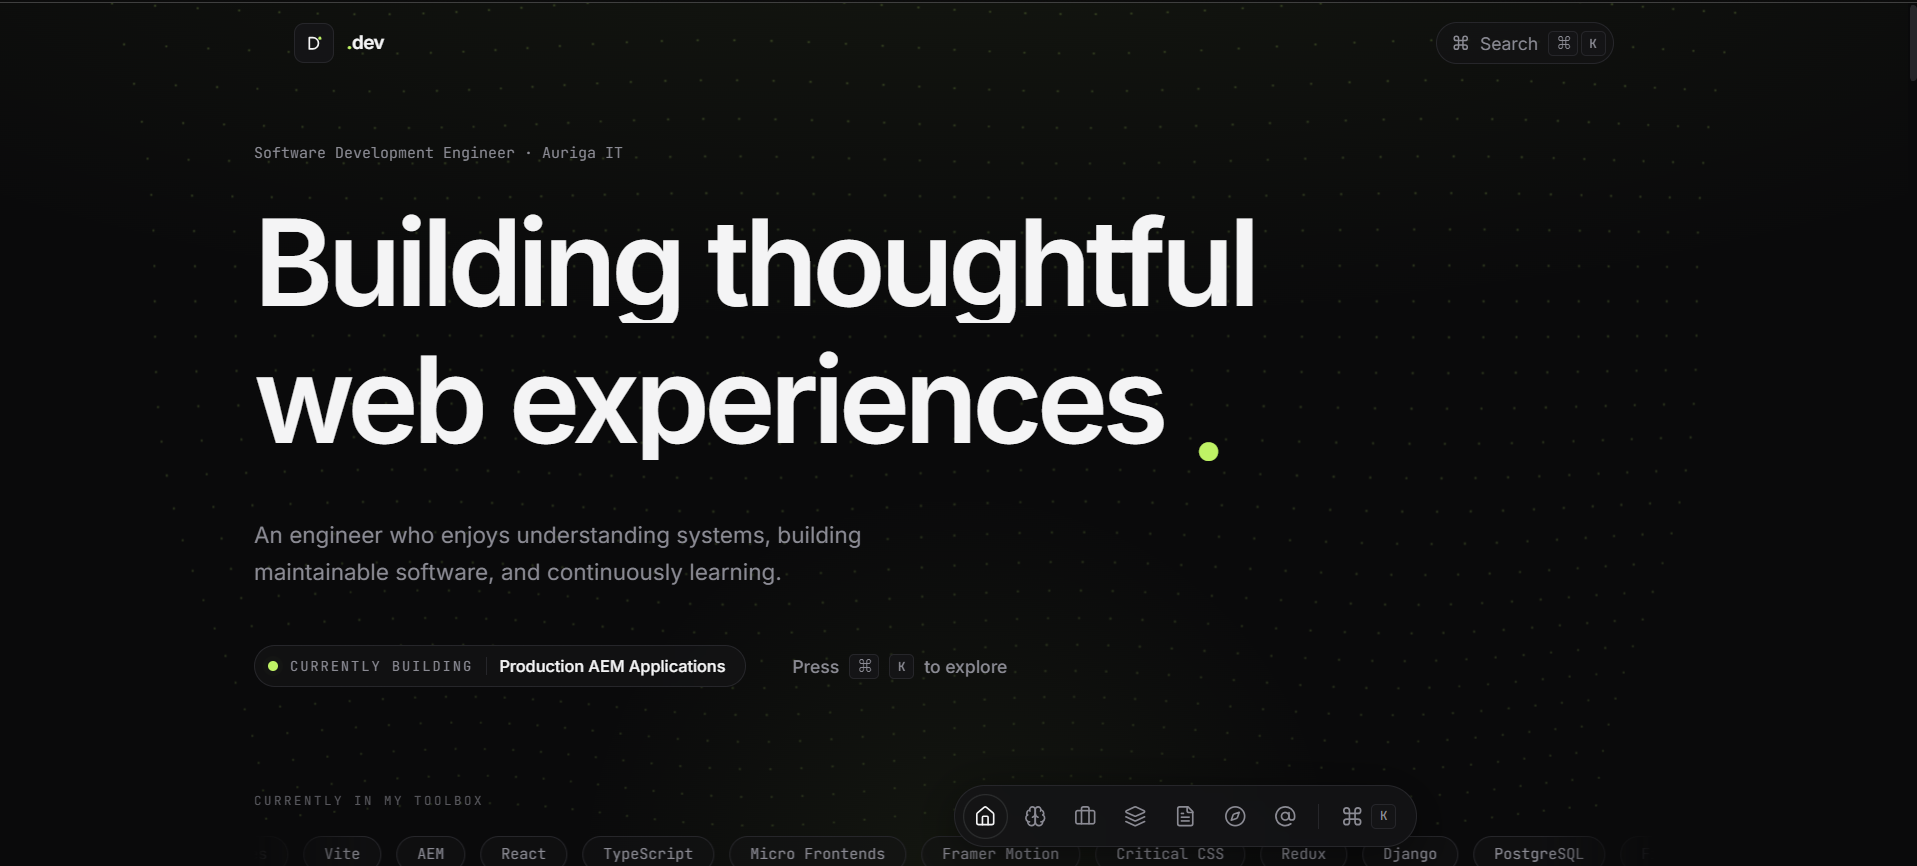
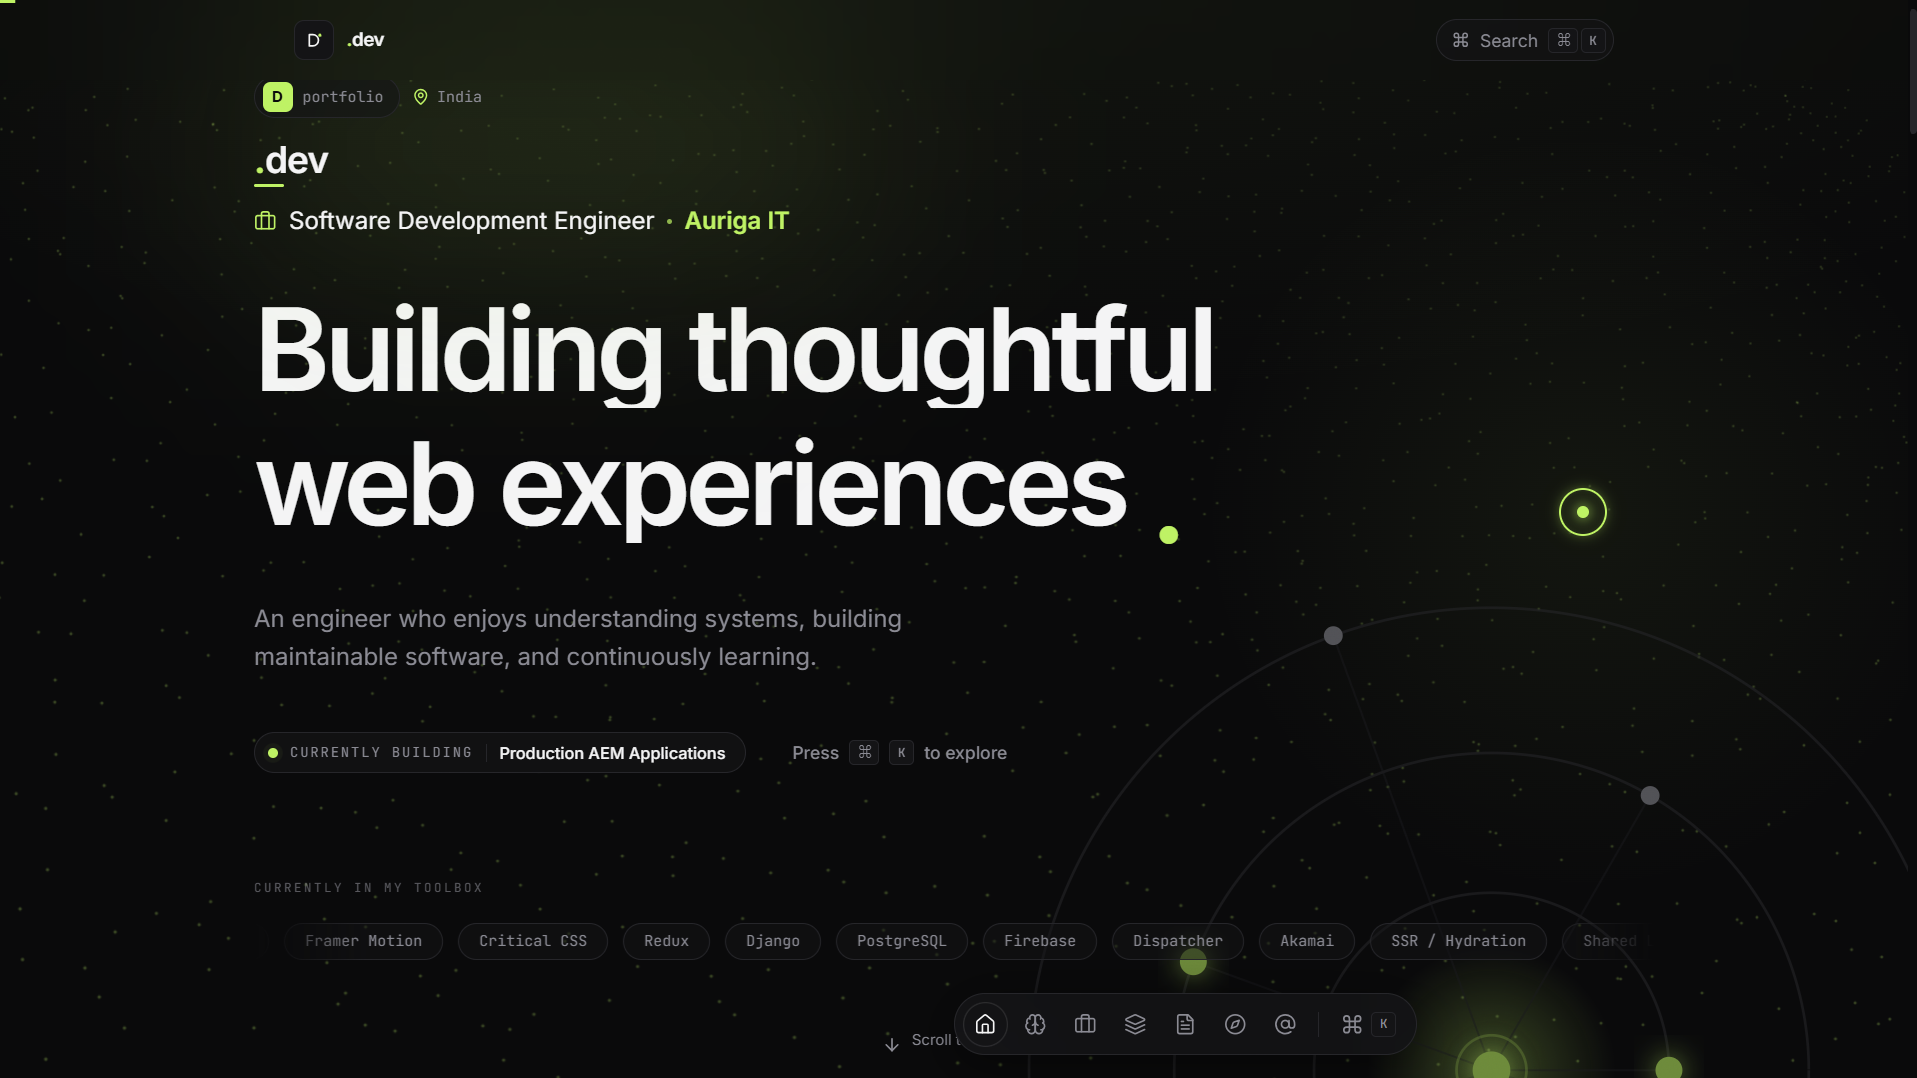
updated readme preview image & added github and codepen links in the work section for easy access

diff --git a/src/pages/WorkIndex.tsx b/src/pages/WorkIndex.tsx
@@ -1,53 +1,104 @@
 import { Link } from "react-router-dom";
-import { ArrowLeft } from "lucide-react";
+import { ArrowLeft, ArrowUpRight, Github, Codepen } from "lucide-react";
 import { motion } from "framer-motion";
 import { visibleProjects as projects } from "@/data/projects";
+import { profile } from "@/data/profile";
 import { ProjectPreview } from "@/components/previews/ProjectPreview";
 import { PageBackdrop } from "@/components/graphics/PageBackdrop";
 import { ShimmerReveal } from "@/components/ui/ShimmerReveal";
 import { ListSkeleton } from "@/components/ui/Skeleton";
 import { fadeUp } from "@/lib/motion";
 
+const findSocial = (label: string) =>
+    profile.socials.find((s) => s.label === label)?.href ?? "#";
+
 export function WorkIndex() {
-  return (
-    <>
-    <PageBackdrop label="WORK" />
-    <main className="relative z-10 mx-auto min-h-svh w-full max-w-content px-6 pb-32 pt-28 sm:px-8 md:pt-32">
-      <Link
-        to="/"
-        className="group inline-flex items-center gap-2 text-sm text-muted transition-colors hover:text-text"
-      >
-        <ArrowLeft className="h-4 w-4 transition-transform group-hover:-translate-x-1" />
-        Home
-      </Link>
+    return (
+        <>
+            <PageBackdrop label="WORK" />
+            <main className="relative z-10 mx-auto min-h-svh w-full max-w-content px-6 pb-32 pt-28 sm:px-8 md:pt-32">
+                <Link
+                    to="/"
+                    className="group inline-flex items-center gap-2 text-sm text-muted transition-colors hover:text-text"
+                >
+                    <ArrowLeft className="h-4 w-4 transition-transform group-hover:-translate-x-1" />
+                    Home
+                </Link>
 
-      <motion.header
-        variants={fadeUp}
-        initial="hidden"
-        animate="show"
-        className="mt-8 max-w-3xl"
-      >
-        <span className="section-label">Case Studies</span>
-        <h1 className="mt-4 text-balance text-h1 font-semibold tracking-tightest">
-          Everything I've built, in depth.
-        </h1>
-        <p className="mt-5 max-w-xl text-lead text-muted">
-          Each entry is an article — problem, architecture, the decisions that
-          mattered, and what I'd do next.
-        </p>
-      </motion.header>
+                <motion.header
+                    variants={fadeUp}
+                    initial="hidden"
+                    animate="show"
+                    className="mt-8 max-w-3xl"
+                >
+                    <span className="section-label">Case Studies</span>
+                    <h1 className="mt-4 text-balance text-h1 font-semibold tracking-tightest">
+                        Selected work, in depth.
+                    </h1>
+                    <p className="mt-5 max-w-xl text-lead text-muted">
+                        The projects worth the long read — problem,
+                        architecture, the decisions that mattered, and what I'd
+                        do next. The rest lives on GitHub and CodePen.
+                    </p>
+                </motion.header>
 
-      <ShimmerReveal
-        className="mt-14"
-        skeleton={<ListSkeleton rows={projects.length} variant="project" />}
-      >
-        <div>
-          {projects.map((p, i) => (
-            <ProjectPreview key={p.id} project={p} index={i} />
-          ))}
-        </div>
-      </ShimmerReveal>
-    </main>
-    </>
-  );
+                <ShimmerReveal
+                    className="mt-14"
+                    skeleton={
+                        <ListSkeleton
+                            rows={projects.length}
+                            variant="project"
+                        />
+                    }
+                >
+                    <div>
+                        {projects.map((p, i) => (
+                            <ProjectPreview key={p.id} project={p} index={i} />
+                        ))}
+                    </div>
+                </ShimmerReveal>
+
+                {/* the long tail lives elsewhere */}
+                <motion.div
+                    variants={fadeUp}
+                    initial="hidden"
+                    whileInView="show"
+                    viewport={{ once: true }}
+                    className="mt-16 flex flex-col gap-5 rounded-2xl border border-border bg-surface/40 p-6 sm:flex-row sm:items-center sm:justify-between sm:p-8"
+                >
+                    <div>
+                        <h2 className="text-lg font-medium text-text">
+                            Not everything makes the case-study cut.
+                        </h2>
+                        <p className="mt-1 max-w-md text-sm leading-relaxed text-muted">
+                            Experiments, smaller builds, and UI pens live on
+                            GitHub and CodePen. Have a dig around.
+                        </p>
+                    </div>
+                    <div className="flex flex-wrap gap-3">
+                        <a
+                            href={findSocial("GitHub")}
+                            target="_blank"
+                            rel="noopener noreferrer"
+                            className="group inline-flex items-center gap-2 rounded-full border border-border bg-bg px-4 py-2.5 text-sm text-muted transition-colors duration-300 hover:border-accent/40 hover:text-text"
+                        >
+                            <Github className="h-4 w-4" strokeWidth={1.75} />
+                            GitHub
+                            <ArrowUpRight className="h-4 w-4 transition-transform group-hover:translate-x-0.5 group-hover:-translate-y-0.5" />
+                        </a>
+                        <a
+                            href={findSocial("CodePen")}
+                            target="_blank"
+                            rel="noopener noreferrer"
+                            className="group inline-flex items-center gap-2 rounded-full border border-border bg-bg px-4 py-2.5 text-sm text-muted transition-colors duration-300 hover:border-accent/40 hover:text-text"
+                        >
+                            <Codepen className="h-4 w-4" strokeWidth={1.75} />
+                            CodePen
+                            <ArrowUpRight className="h-4 w-4 transition-transform group-hover:translate-x-0.5 group-hover:-translate-y-0.5" />
+                        </a>
+                    </div>
+                </motion.div>
+            </main>
+        </>
+    );
 }
